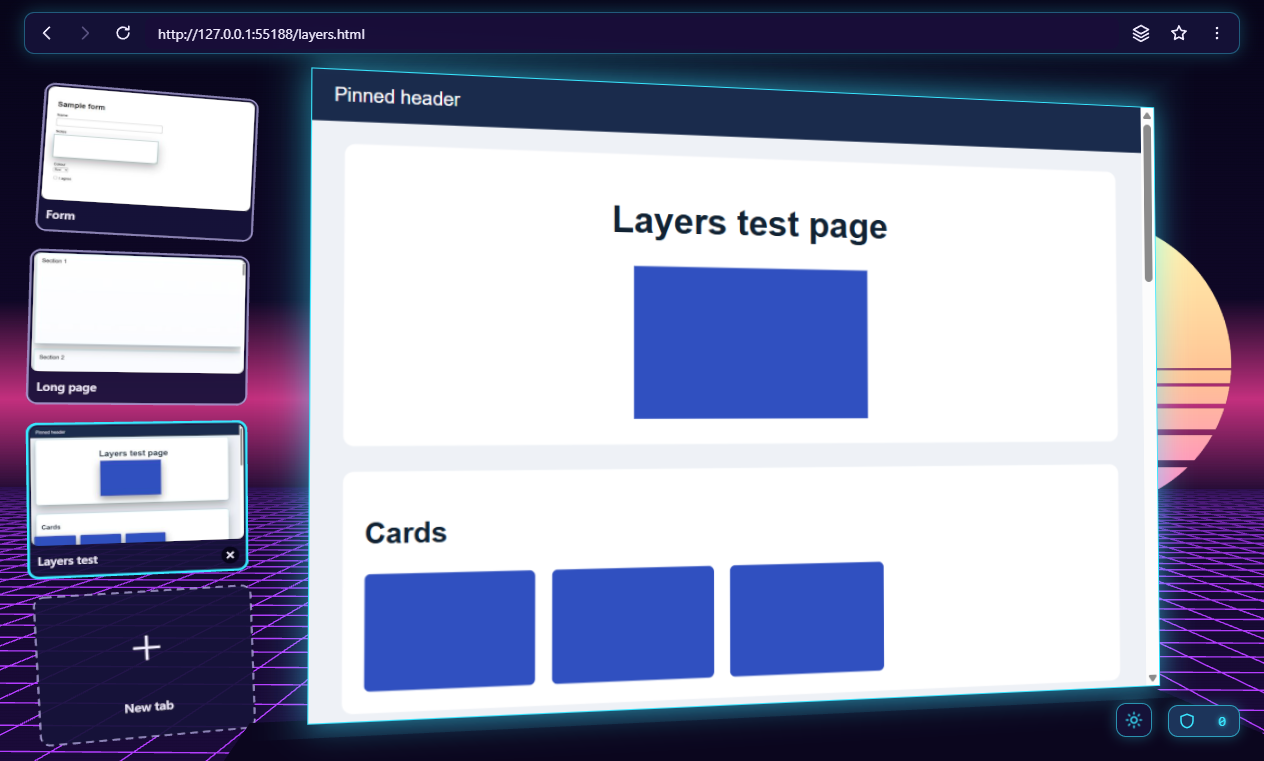
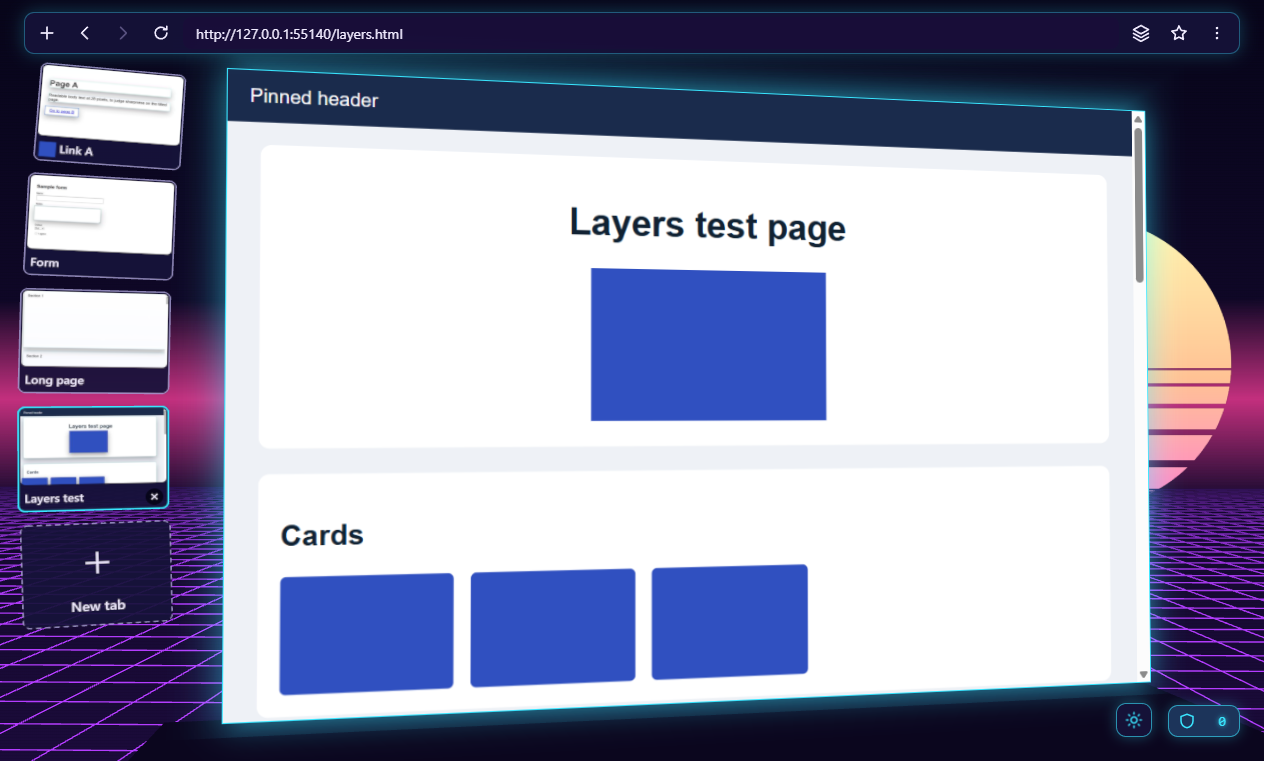
Shrink the tab cards and hide the rail while there is one tab
Owner request (prompt 33): the cards took too much of the screen. Cards
are two-thirds of their first size, drawn at full resolution with larger
type; the rail shows only with two or more tabs, and the page widens
into the space otherwise. A "+" button at the left of the top bar opens
a new tab. D2 to D4 follow the new requirement; D4 now compares a
card's own size rather than the spacing between cards. 117 of 117
end-to-end checks pass. Logs prompt 34.

Changed region(s): [[0.0, 0.0302, 1.0, 1.0], [0.432, 0.272, 0.7097, 0.5742]]

diff --git a/tests/e2e/m2.e2e.ts b/tests/e2e/m2.e2e.ts
@@ -42,6 +42,7 @@ afterAll(async () => {
 const FOCUSED = '[data-testid="page-panel"][aria-hidden="false"]';
 const OVERLAY = `${FOCUSED} [data-testid="page-overlay"]`;
 const bar = (id: string) => `hs-toolbar [data-testid="${id}"]`;
+const NEW_TAB = bar('new-tab');
 
 async function tabCount(h: Harness, n: number): Promise<void> {
   await waitFor(`${n} tabs`, () => tabs(h), (t) => t.length === n);
@@ -121,9 +122,13 @@ describe('D2 tabs', () => {
     expect(await count(server.url('link-a.html'))).toBe(1);
   });
 
-  it('the "+" card opens a start tab with the address field ready', async () => {
-    await clickCard(h, 'plus');
+  it('with one tab the rail is hidden; the new-tab button opens a start tab, the address field ready, and the rail appears', async () => {
+    // Owner, prompt 33: the cards show only with two or more tabs.
+    expect(await shellCall(h, 'railVisible')).toBe(false);
+    expect(await shellCall(h, 'cardPoint', 'plus', 'body')).toBeNull();
+    await h.shell.click(NEW_TAB);
     await tabCount(h, 2);
+    await waitFor('rail shown', () => shellCall(h, 'railVisible'), (v) => v);
     const tab = await focusedTab(h);
     expect(tab.state).toBe('start');
     expect(await h.shell.locator(`${FOCUSED} [data-testid="start-panel"]`).isVisible()).toBe(true);
@@ -174,9 +179,10 @@ describe('D2 tabs', () => {
     expect((await tabs(h))[0]!.url).toContain('form.html');
   });
 
-  it('closing the last tab leaves a start tab', async () => {
+  it('closing the last tab leaves a start tab, and the rail hides', async () => {
+    expect(await shellCall(h, 'railVisible')).toBe(false); // one tab left
     const before = (await tabs(h))[0]!.id;
-    await clickCard(h, before, 'close');
+    await pressInShell(h, 'W', ['control']);
     await waitFor('a fresh start tab', () => tabs(h), (t) => t.length === 1 && t[0]!.id !== before);
     expect((await focusedTab(h)).state).toBe('start');
   });
@@ -192,7 +198,7 @@ describe('D3 snapshots and favicons', () => {
 
   it('shows the page on its card and the favicon, then stops drawing', async () => {
     await waitFor('favicon', () => focusedTab(h), (t) => t.hasFavicon);
-    await clickCard(h, 'plus');
+    await h.shell.click(NEW_TAB);
     await navigateTo(h, server.url('long.html'));
     await waitForPage(h, 'long');
     const all = await waitFor('snapshots on both cards', () => tabs(h), (t) => t.every((x) => x.hasSnapshot));
@@ -214,13 +220,17 @@ describe('D4 many tabs', () => {
   afterAll(async () => h?.close());
 
   it('scrolls the arc and keeps cards at full size', async () => {
-    await clickCard(h, 'plus');
+    await h.shell.click(NEW_TAB);
     await tabCount(h, 2);
     await settled(h);
-    const [a, b] = await tabs(h);
-    const pa = (await shellCall(h, 'cardPoint', a!.id, 'body'))!;
-    const pb = (await shellCall(h, 'cardPoint', b!.id, 'body'))!;
-    const spacing = Math.hypot(pb.x - pa.x, pb.y - pa.y);
+    const [a] = await tabs(h);
+    // A card's size on screen: from its middle to its close button.
+    const size = async (id: number) => {
+      const body = (await shellCall(h, 'cardPoint', id, 'body'))!;
+      const close = (await shellCall(h, 'cardPoint', id, 'close'))!;
+      return Math.hypot(close.x - body.x, close.y - body.y);
+    };
+    const before = await size(a!.id);
 
     for (let i = 0; i < 10; i++) await pressInShell(h, 'T', ['control']);
     await tabCount(h, 12);
@@ -238,9 +248,12 @@ describe('D4 many tabs', () => {
     for (let i = 0; i < 20; i++) await h.shell.mouse.wheel(0, -400);
     await waitFor('rail at the top', () => shellCall(h, 'rail'), (r) => r.scroll === 0);
     const all = await tabs(h);
-    const qa = (await shellCall(h, 'cardPoint', all[0]!.id, 'body'))!;
-    const qb = (await shellCall(h, 'cardPoint', all[1]!.id, 'body'))!;
-    expect(Math.abs(Math.hypot(qb.x - qa.x, qb.y - qa.y) - spacing)).toBeLessThan(1.5);
+    // The same card is the same size with twelve tabs as with two. (Until
+    // 2026-09-26 this compared the spacing of the first two cards; the
+    // arc's curve depends on the number of cards, which moves them a few
+    // pixels without resizing them, and with the smaller cards that
+    // crossed the tolerance.)
+    expect(Math.abs((await size(all[0]!.id)) - before)).toBeLessThan(1.5);
     expect(await shellCall(h, 'cardPoint', all[11]!.id, 'body')).toBeNull(); // scrolled out of view
     expect(await shellCall(h, 'cardPoint', 'plus', 'body')).not.toBeNull(); // still in view at the top
     await clickCard(h, 'plus');

diff --git a/apps/browser/src/renderer/scene/room.ts b/apps/browser/src/renderer/scene/room.ts
@@ -44,8 +44,10 @@ import type { TabView } from './tab-view';
 export const HUD_HEIGHT = 64;
 // The rail starts well inside the window: cards sit nearer the camera than
 // the page, so perspective pushes them outward.
-const RAIL = { left: 52, width: CARD_WIDTH, bottomMargin: 24, gap: 16 };
-const PAGE_INSETS: Insets = { top: HUD_HEIGHT, right: 36, bottom: 36, left: RAIL.left + RAIL.width + 40 };
+const RAIL = { left: 40, width: CARD_WIDTH, bottomMargin: 24, gap: 12 };
+/** Room for the page. The tab rail only shows with two or more tabs (owner, prompt 33). */
+const PAGE_INSETS: Insets = { top: HUD_HEIGHT, right: 36, bottom: 36, left: RAIL.left + RAIL.width + 32 };
+const PAGE_INSETS_NO_RAIL: Insets = { ...PAGE_INSETS, left: 36 };
 const GLOW_MARGIN = 64;
 const DESK_DEPTH = 360;
 const SWITCH_MS = 250;
@@ -122,6 +124,8 @@ export class Room {
   private framePending = false;
   private lastFrameTime = 0;
   private hoveredCard: TabCard | null = null;
+  /** Whether the tab rail shows: only with two or more tabs. */
+  private railShown = false;
   /** The last few parallax decisions, for diagnosing test failures. */
   readonly pointerLog: { x: number; y: number; target: string; overPage: boolean }[] = [];
   private readonly raycaster = new Raycaster();
@@ -260,8 +264,20 @@ export class Room {
       }
     }
     this.order = all.map((m) => m.key);
-    this.layoutCards();
+    const shown = models.length >= 2;
+    if (shown !== this.railShown) {
+      this.railShown = shown;
+      if (!shown && this.hoveredCard) this.setHovered(null);
+      this.layout(); // the page widens or makes room for the rail
+    } else {
+      this.layoutCards();
+    }
     this.requestRender();
+  }
+
+  /** Whether the tab rail is showing (two or more tabs). */
+  get railVisible(): boolean {
+    return this.railShown;
   }
 
   setSnapshot(tabId: number, dataUrl: string): void {
@@ -329,7 +345,7 @@ export class Room {
       viewportHeight: h,
       fovDeg: this.options.fovDeg ?? 40,
       tiltDeg: this.options.tiltDeg,
-      insets: PAGE_INSETS,
+      insets: this.railShown ? PAGE_INSETS : PAGE_INSETS_NO_RAIL,
     });
     const layout = this.currentLayout;
 
@@ -394,7 +410,7 @@ export class Room {
       if (!card || !place) return;
       card.mesh.position.set(place.position.x, place.position.y, place.position.z);
       card.mesh.rotation.set(place.rotationX, place.rotationY, 0);
-      card.setOpacity(place.opacity);
+      card.setOpacity(this.railShown ? place.opacity : 0);
     });
   }
 
@@ -666,7 +682,7 @@ export class Room {
     canvas.addEventListener(
       'wheel',
       (e) => {
-        if (e.clientX > RAIL.left + RAIL.width + 24) return;
+        if (!this.railShown || e.clientX > RAIL.left + RAIL.width + 24) return;
         const before = this.railScroll;
         this.railScroll = clampScroll(this.arcInput(), this.railScroll + e.deltaY);
         if (this.railScroll === before) return;

diff --git a/apps/browser/src/renderer/scene/tab-card.ts b/apps/browser/src/renderer/scene/tab-card.ts
@@ -1,14 +1,17 @@
 import { CanvasTexture, Mesh, MeshBasicMaterial, PlaneGeometry, SRGBColorSpace } from 'three';
 import type { Theme } from '@hypersol/themes';
 
-export const CARD_WIDTH = 200;
-export const CARD_HEIGHT = 150;
-const SCALE = 2; // canvas pixels per world unit, for sharp text
-const W = CARD_WIDTH * SCALE;
-const H = CARD_HEIGHT * SCALE;
-const SNAP = { x: 8, y: 8, w: W - 16, h: 228 };
-const BAR_Y = 244;
-const CLOSE = { cx: 366, cy: 268, r: 17 };
+// Two-thirds of the milestone 2 size (owner, prompt 33: the cards took too
+// much of the screen). The drawing keeps its full resolution, with larger
+// type, so the smaller card stays readable.
+export const CARD_WIDTH = 136;
+export const CARD_HEIGHT = 102;
+const W = 400; // canvas pixels
+const H = 300;
+const SCALE = W / CARD_WIDTH; // canvas pixels per world unit, for sharp text
+const SNAP = { x: 8, y: 8, w: W - 16, h: 214 };
+const BAR_Y = 228;
+const CLOSE = { cx: 360, cy: 264, r: 24 };
 
 export type CardPart = 'body' | 'close';
 
@@ -174,12 +177,12 @@ export class TabCard {
 
     if (this.model.key === 'plus') {
       ctx.fillStyle = this.hovered ? c.accent : c.text;
-      ctx.font = '300 110px system-ui, sans-serif';
+      ctx.font = '300 140px system-ui, sans-serif';
       ctx.textAlign = 'center';
       ctx.textBaseline = 'middle';
       ctx.fillText('+', W / 2, 118);
-      ctx.font = '600 24px system-ui, sans-serif';
-      ctx.fillText('New tab', W / 2, 238);
+      ctx.font = '600 38px system-ui, sans-serif';
+      ctx.fillText('New tab', W / 2, 246);
       this.texture.needsUpdate = true;
       return;
     }
@@ -216,16 +219,16 @@ export class TabCard {
     // Label bar: favicon, title, close button.
     let textX = 18;
     if (this.favicon) {
-      ctx.drawImage(this.favicon, 16, BAR_Y + 8, 32, 32);
-      textX = 58;
+      ctx.drawImage(this.favicon, 14, BAR_Y + 14, 44, 44);
+      textX = 68;
     }
     const showsClose = this.hovered || focused;
     const maxText = (showsClose ? CLOSE.cx - CLOSE.r - 10 : W - 16) - textX;
     ctx.fillStyle = c.text;
-    ctx.font = '500 22px system-ui, sans-serif';
+    ctx.font = '600 32px system-ui, sans-serif';
     ctx.textAlign = 'left';
     ctx.textBaseline = 'middle';
-    ctx.fillText(fit(ctx, this.model.title || 'Untitled', maxText), textX, BAR_Y + 24);
+    ctx.fillText(fit(ctx, this.model.title || 'Untitled', maxText), textX, BAR_Y + 36);
 
     if (showsClose) {
       ctx.beginPath();
@@ -234,7 +237,7 @@ export class TabCard {
       ctx.fill();
       ctx.strokeStyle = this.hoverClose ? c.backgroundBottom : c.text;
       ctx.lineWidth = 3;
-      const d = 6;
+      const d = 8;
       ctx.beginPath();
       ctx.moveTo(CLOSE.cx - d, CLOSE.cy - d);
       ctx.lineTo(CLOSE.cx + d, CLOSE.cy + d);

diff --git a/apps/browser/src/renderer/hud/toolbar.ts b/apps/browser/src/renderer/hud/toolbar.ts
@@ -3,6 +3,7 @@ import { LitElement, css, html, nothing, type PropertyValues } from 'lit';
 export type MenuAction = 'new-tab' | 'close-tab' | 'library' | 'settings' | 'about';
 
 const icon = {
+  plus: html`<svg viewBox="0 0 24 24" aria-hidden="true"><path d="M12 5v14M5 12h14" /></svg>`,
   back: html`<svg viewBox="0 0 24 24" aria-hidden="true"><path d="M15 5l-7 7 7 7" /></svg>`,
   forward: html`<svg viewBox="0 0 24 24" aria-hidden="true"><path d="M9 5l7 7-7 7" /></svg>`,
   reload: html`<svg viewBox="0 0 24 24" aria-hidden="true"><path d="M19 12a7 7 0 1 1-2.05-4.95M19 4v4h-4" /></svg>`,
@@ -21,7 +22,7 @@ const icon = {
  * controller does the work.
  *
  * Events (bubbling, composed): hs-navigate (detail: typed text), hs-back,
- * hs-forward, hs-reload, hs-bookmark, hs-layers, hs-menu (detail: MenuAction).
+ * hs-forward, hs-reload, hs-bookmark, hs-layers, hs-new-tab, hs-menu (detail: MenuAction).
  */
 export class HsToolbar extends LitElement {
   static override properties = {
@@ -278,6 +279,9 @@ export class HsToolbar extends LitElement {
     const mod = navigator.platform.startsWith('Mac') ? 'Cmd' : 'Ctrl';
     return html`
       <div class="bar">
+        <button data-testid="new-tab" aria-label="New tab" title=${`New tab (${mod}+T)`} @click=${() => this.fire('hs-new-tab')}>
+          ${icon.plus}
+        </button>
         <button data-testid="back" aria-label="Back" title="Back" ?disabled=${!this.canGoBack} @click=${() => this.fire('hs-back')}>
           ${icon.back}
         </button>

diff --git a/apps/browser/src/renderer/app.ts b/apps/browser/src/renderer/app.ts
@@ -551,6 +551,7 @@ export class App {
     t.addEventListener('hs-forward', () => this.focusedView?.goForward());
     t.addEventListener('hs-reload', () => this.focusedView?.reload());
     t.addEventListener('hs-bookmark', () => void this.toggleBookmark());
+    t.addEventListener('hs-new-tab', () => this.store.open());
     t.addEventListener('hs-layers', () => void this.toggleLayers());
     t.addEventListener('hs-menu', (e) => this.onMenu((e as CustomEvent<MenuAction>).detail));
   }

diff --git a/apps/browser/src/renderer/main.ts b/apps/browser/src/renderer/main.ts
@@ -80,6 +80,7 @@ if (params.get('test') === '1') {
       focusedTabId: () => store.focusedId,
       cardPoint: (key: number | 'plus', part: CardPart) => room.cardPoint(key, part),
       rail: () => room.rail,
+      railVisible: () => room.railVisible,
       animating: () => room.animating,
       webContentsIdOf: (tabId: number) => app.viewOf(tabId)?.webContentsId ?? null,
       layersOf: (tabId: number) => app.layersState(tabId),

diff --git a/tests/e2e/harness.ts b/tests/e2e/harness.ts
@@ -189,6 +189,7 @@ export interface ShellHooks {
   focusedTabId(): number;
   cardPoint(key: number | 'plus', part: 'body' | 'close'): Point | null;
   rail(): { scroll: number; maxScroll: number; fits: number };
+  railVisible(): boolean;
   animating(): boolean;
   webContentsIdOf(tabId: number): number | null;
   shield(): { count: number; disabled: boolean; open: boolean };

diff --git a/TODO.md b/TODO.md
@@ -954,3 +954,25 @@ under the room's lights; it is lighter now, with more ambient light.
 
 H1 to H8 and the regression checks pass, the owner accepts H9, the docs
 and screenshots are updated, and the owner approves the milestone.
+
+### After acceptance: smaller tab cards (2026-09-26, prompt 33)
+
+Owner request: the tab cards took too much of the screen. Done:
+- Cards are two-thirds of their first size (136 by 102 world units),
+  drawn at full resolution with larger type.
+- The rail shows only with two or more tabs; with one tab the page
+  widens into the space. A "+" button at the left of the top bar (and
+  Ctrl/Cmd+T) opens another tab; the pinned "+" card stays at the end
+  of the rail when it shows.
+- Checks changed with the requirement: D2 now opens the second tab with
+  the top-bar button and checks the rail hides with one tab and appears
+  with two; the last-tab check closes it with Ctrl+W (there is no card
+  to close); D3 and D4 open the second tab with the button. D4 now
+  compares a card's own size with twelve tabs and with two, instead of
+  the spacing between the first two cards: the arc's curve depends on
+  the number of cards, which moves them a few pixels without resizing
+  them.
+- Results: 164 unit tests; 117 of 117 end-to-end checks (D8 included,
+  the clipboard works again). Screenshots in docs/screenshots/m6
+  retaken.
+

diff --git a/ARCHITECTURE.md b/ARCHITECTURE.md
@@ -305,8 +305,12 @@ The window uses the standard OS title bar.
 - Left rail: tab cards, stacked in a shallow arc, each a snapshot with
   title and favicon. Click to focus; the cards animate as the focused
   page slides into the centre. Close on hover. "+" card at the end.
-- Top HUD (2D overlay, always sharp): back, forward, reload, address and
-  search bar, layers view button, bookmark star, menu button. Loading progress is a thin strip under the bar.
+  Since 2026-09-26 (owner, prompt 33) the cards are two-thirds of their
+  first size, and the rail shows only with two or more tabs; with one
+  tab the page takes the space, and a "+" button at the left of the top
+  bar (or Ctrl/Cmd+T) opens another.
+- Top HUD (2D overlay, always sharp): new tab, back, forward, reload,
+  address and search bar, layers view button, bookmark star, menu button. Loading progress is a thin strip under the bar.
 - Right side, on demand: a slide-in Library panel (bookmarks, history) or
   Settings panel. Only one open at a time. Escape closes it.
 - Bottom-right: theme switch and privacy shield (count of blocked

diff --git a/PROMPTS.md b/PROMPTS.md
@@ -377,3 +377,13 @@ tested all requested items. milestone 4 pass, milestone 5 pass, milestone 6 pass
 
 lets add some UI upgrades to one of the milestones or make a new one. we should make the UI a little more busy with info about the browser or sites or other things. use an example like this for controls on the UI. Think about the dev tools console on chrome. this should be a togglable option is settings. ask questions if you need.
 ```
+
+## 34 — 2026-09-26
+
+Model: Claude Opus 5.5 (claude-opus-5-5) · Effort: low · Session: opus-6ff60b35 · Tokens: not captured
+
+Sent while the tab-card change was being made.
+
+```text
+dont change the aesthetics to match the image i sent, create controls that match the aesthetic.
+```
